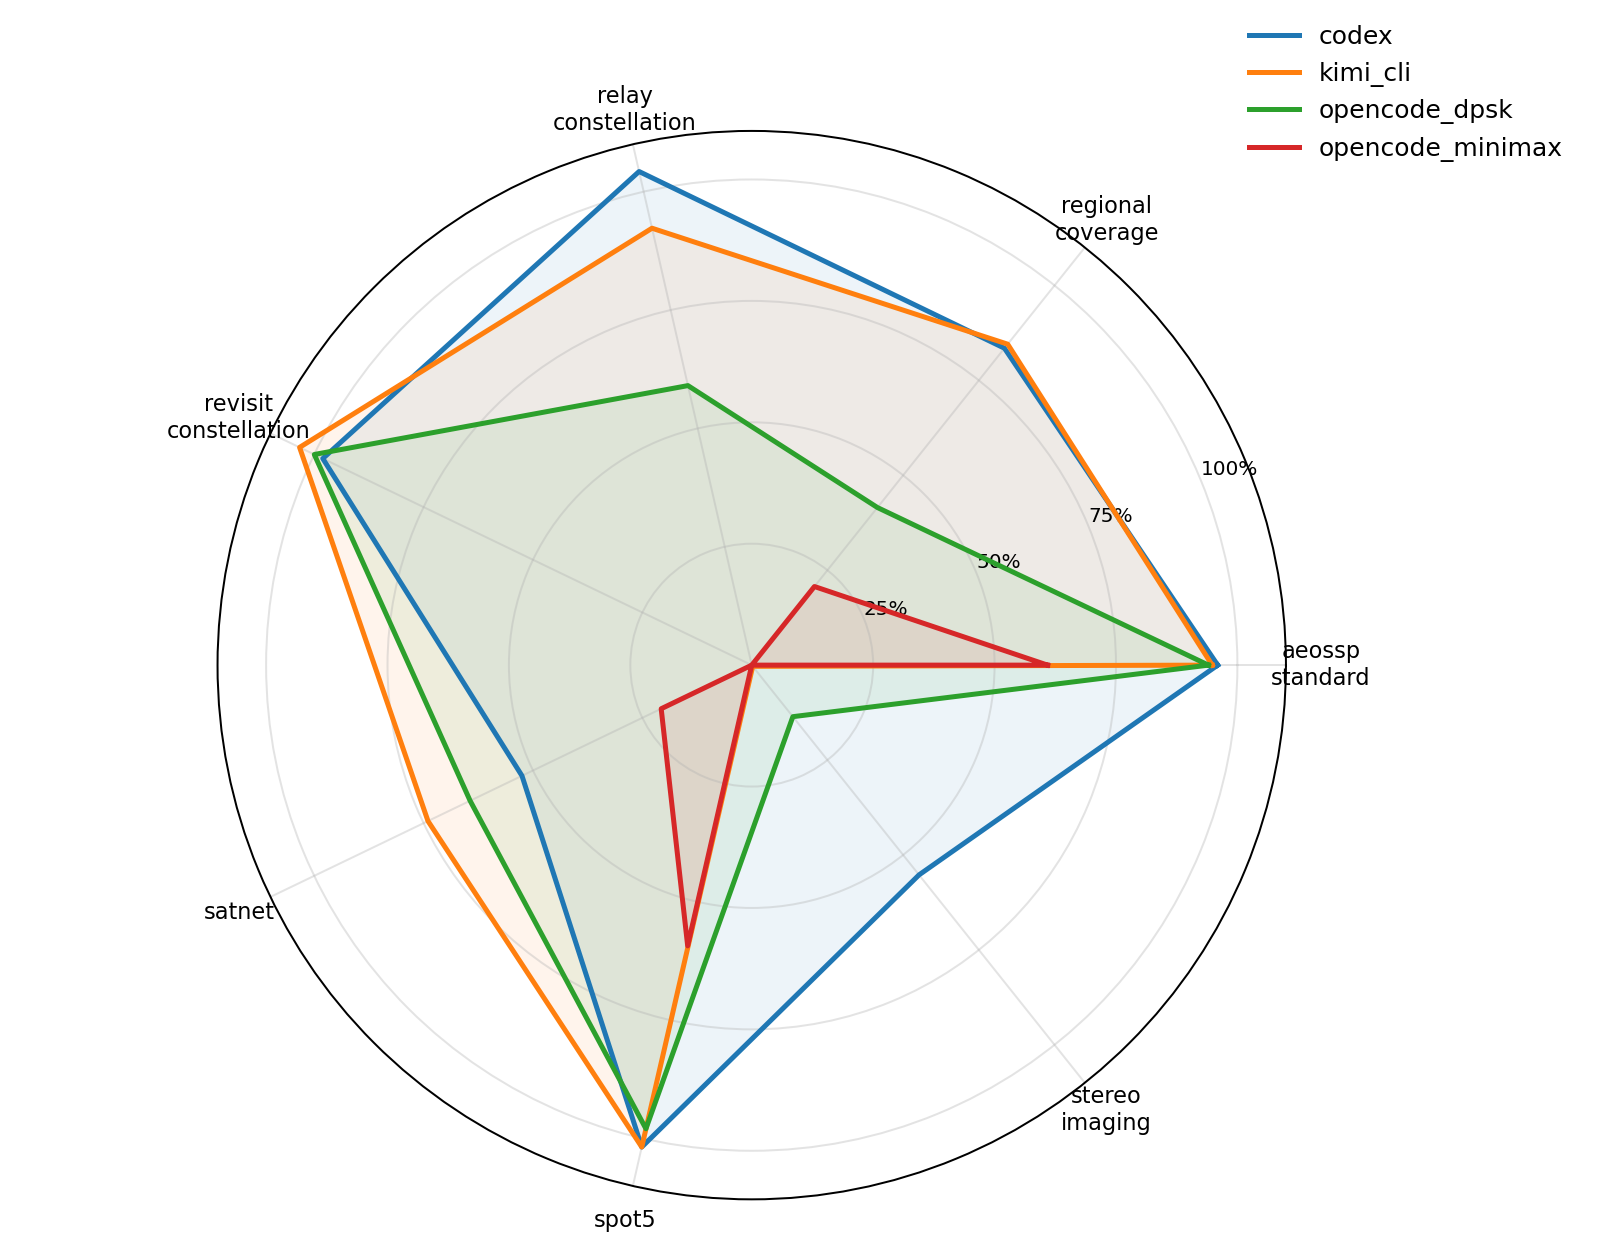
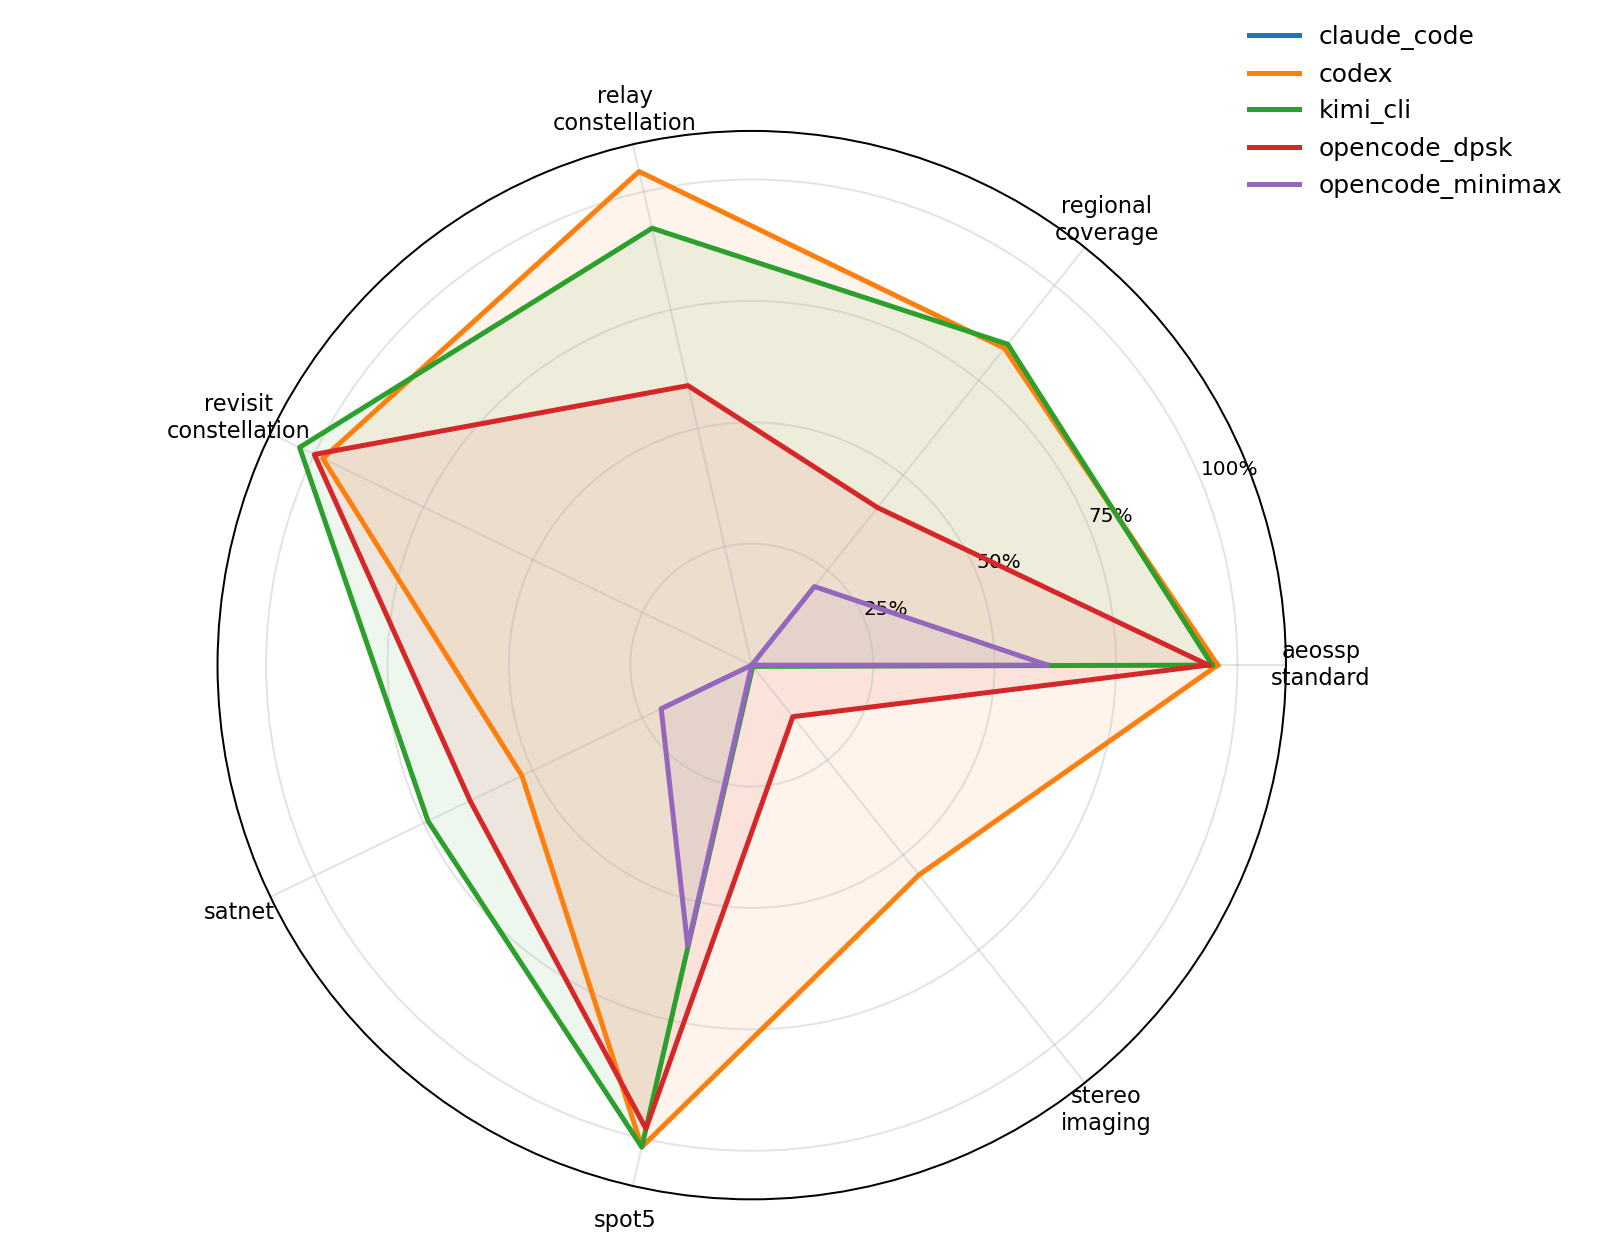
Update metrics

diff --git a/experiments/main_agentic/reports/aeossp_standard.md b/experiments/main_agentic/reports/aeossp_standard.md
@@ -4,7 +4,7 @@ Generated from the current `main_agentic` aggregate summaries.
 
 | Harness | Present | Success | Valid | Invalid | Timeout | Primary Mean | Normalized Mean |
 | --- | ---: | ---: | ---: | ---: | ---: | ---: | ---: |
-| claude_code | 4 | 2 | 2 | 0 | 0 | WCR=0.7026 | 36.19 |
+| claude_code | 5 | 3 | 3 | 0 | 0 | WCR=0.7115 | 43.84 |
 | codex | 5 | 5 | 5 | 0 | 0 | WCR=0.7075 | 72.91 |
 | kimi_cli | 5 | 5 | 5 | 0 | 0 | WCR=0.6923 | 72.03 |
 | opencode_minimax | 5 | 5 | 5 | 0 | 0 | WCR=0.2008 | 36.44 |
@@ -15,6 +15,7 @@ Generated from the current `main_agentic` aggregate summaries.
 | Case | Valid | Duration (s) | Normalized Score | WCR | CR | TAT | PC |
 | --- | --- | ---: | ---: | ---: | ---: | ---: | ---: |
 | case_0001 | true | 7200.1 | 70.87 | 0.6854 | 0.7268 | 1071.2 | 18621.4 |
+| case_0002 | true | 4800.2 | 74.45 | 0.7293 | 0.7538 | 1070.3 | 19616.0 |
 | case_0003 | true | 1038.9 | 73.89 | 0.7198 | 0.7408 | 985.0 | 17763.5 |
 | case_0004 | false | 7.0120 | 0.0000 | - | - | - | - |
 | case_0005 | false | 4.9180 | 0.0000 | - | - | - | - |
